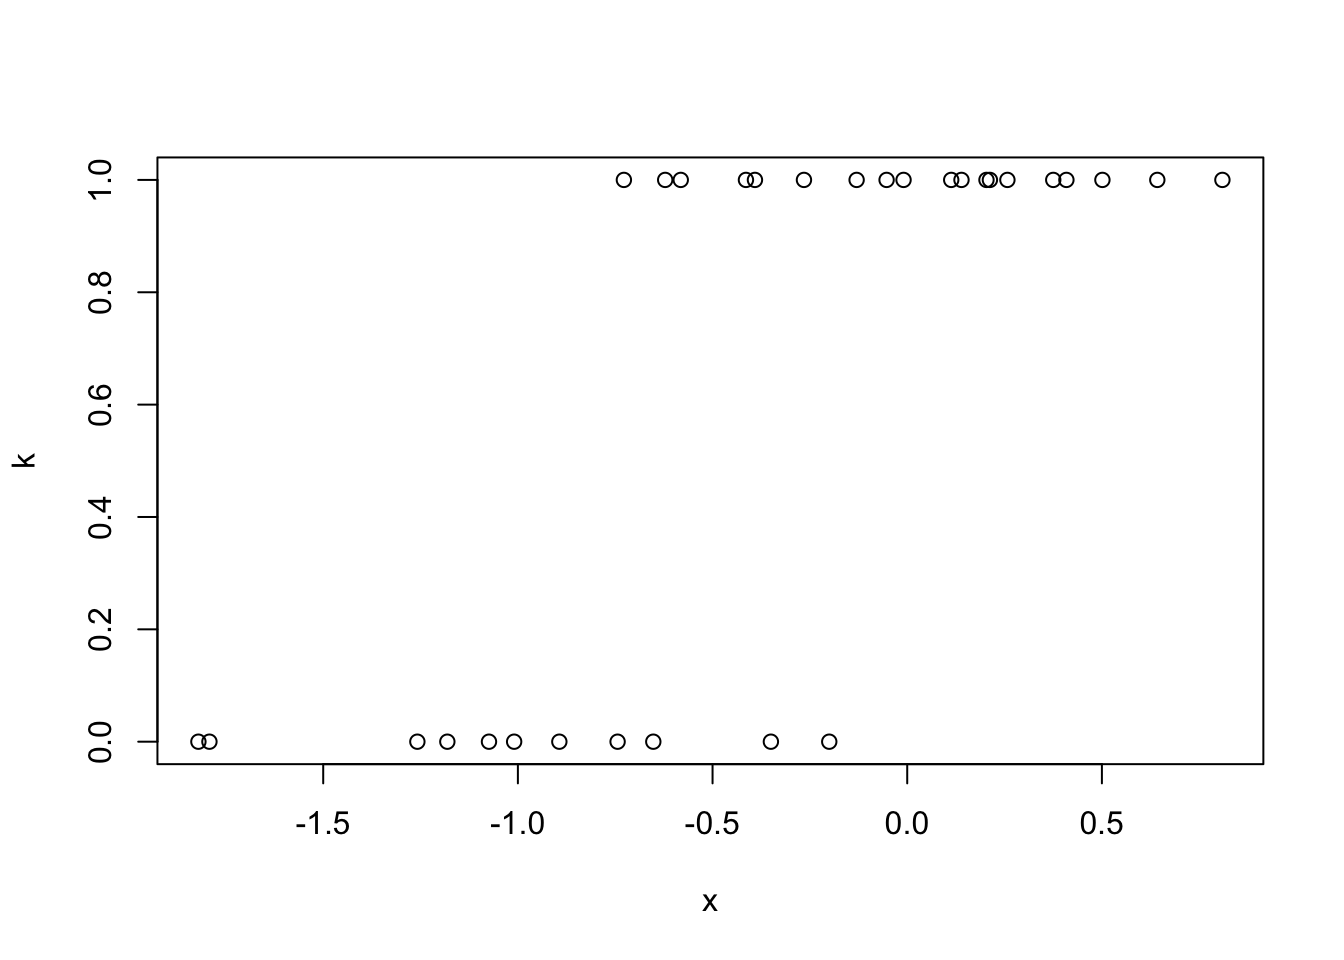
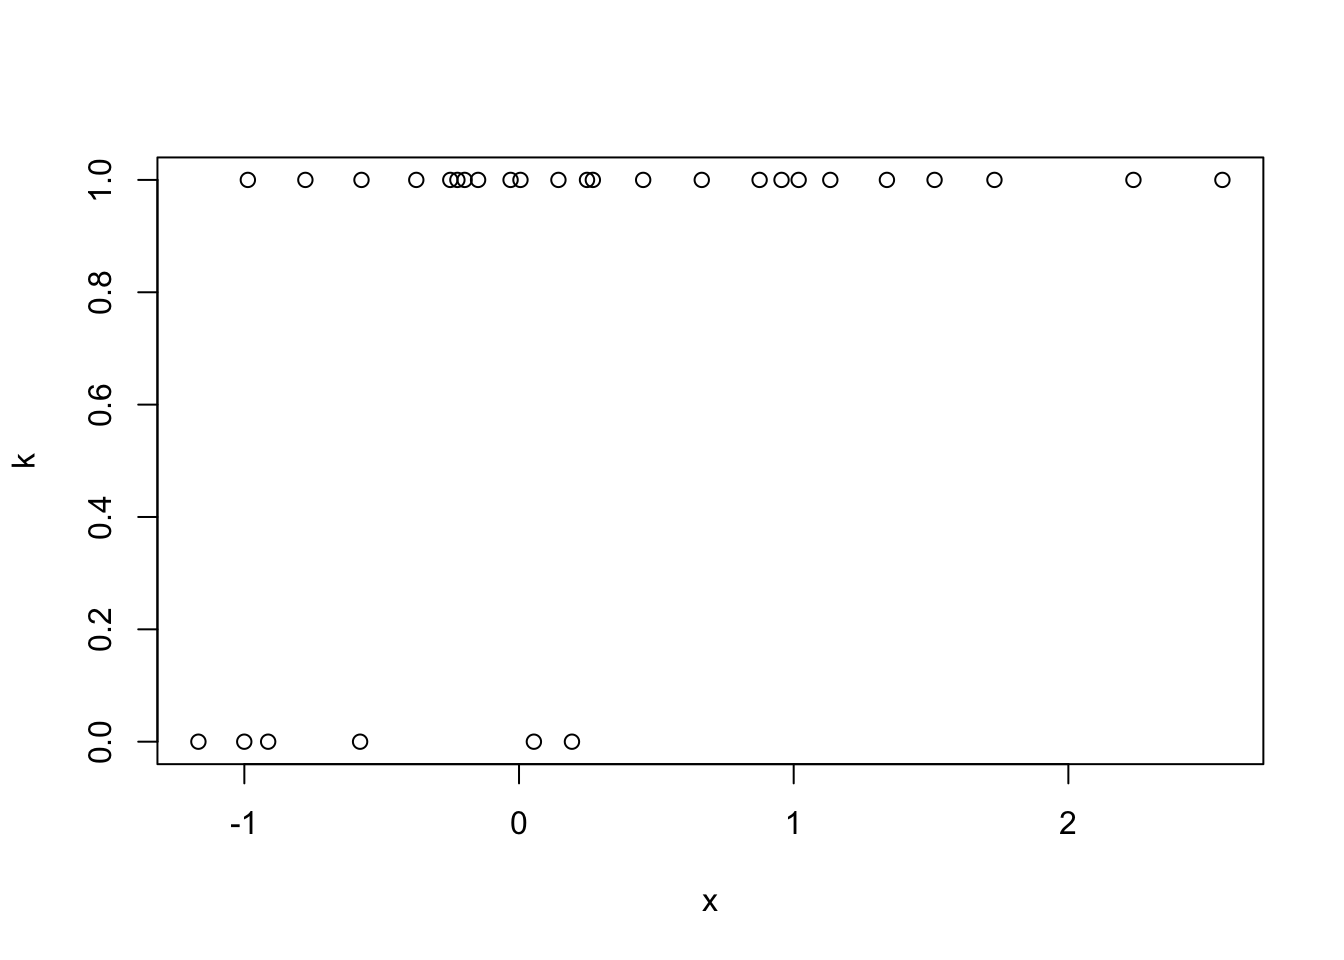
Website update
a few more spelling mistakes

diff --git a/docs/bootcamp-r-series-010-intro-to-r-pt1.html b/docs/bootcamp-r-series-010-intro-to-r-pt1.html
@@ -934,24 +934,24 @@ integer (most of the time).</p>
 <pre class="r"><code># most often used for categorical observations
 pets &lt;- c(&quot;cat&quot;, &quot;dog&quot;, &quot;lizard&quot;, &quot;raccoon&quot;)
 (pet_obs &lt;- sample(pets, 20, TRUE))</code></pre>
-<pre><code>##  [1] &quot;raccoon&quot; &quot;raccoon&quot; &quot;cat&quot;     &quot;cat&quot;     &quot;dog&quot;     &quot;cat&quot;     &quot;dog&quot;    
-##  [8] &quot;lizard&quot;  &quot;dog&quot;     &quot;lizard&quot;  &quot;cat&quot;     &quot;cat&quot;     &quot;dog&quot;     &quot;lizard&quot; 
-## [15] &quot;lizard&quot;  &quot;dog&quot;     &quot;raccoon&quot; &quot;raccoon&quot; &quot;raccoon&quot; &quot;dog&quot;</code></pre>
+<pre><code>##  [1] &quot;lizard&quot;  &quot;lizard&quot;  &quot;raccoon&quot; &quot;raccoon&quot; &quot;cat&quot;     &quot;lizard&quot;  &quot;raccoon&quot;
+##  [8] &quot;lizard&quot;  &quot;cat&quot;     &quot;lizard&quot;  &quot;dog&quot;     &quot;cat&quot;     &quot;lizard&quot;  &quot;dog&quot;    
+## [15] &quot;raccoon&quot; &quot;dog&quot;     &quot;dog&quot;     &quot;dog&quot;     &quot;lizard&quot;  &quot;cat&quot;</code></pre>
 <pre class="r"><code># Turn the character vector into a set of factors
 pet_fct &lt;- factor(pet_obs)
 pet_fct</code></pre>
-<pre><code>##  [1] raccoon raccoon cat     cat     dog     cat     dog     lizard  dog    
-## [10] lizard  cat     cat     dog     lizard  lizard  dog     raccoon raccoon
-## [19] raccoon dog    
+<pre><code>##  [1] lizard  lizard  raccoon raccoon cat     lizard  raccoon lizard  cat    
+## [10] lizard  dog     cat     lizard  dog     raccoon dog     dog     dog    
+## [19] lizard  cat    
 ## Levels: cat dog lizard raccoon</code></pre>
 <pre class="r"><code># can be converted to an integer vector
 as.integer(pet_fct)</code></pre>
-<pre><code>##  [1] 4 4 1 1 2 1 2 3 2 3 1 1 2 3 3 2 4 4 4 2</code></pre>
+<pre><code>##  [1] 3 3 4 4 1 3 4 3 1 3 2 1 3 2 4 2 2 2 3 1</code></pre>
 <pre class="r"><code># can be converted to a character vector
 as.character(pet_fct)</code></pre>
-<pre><code>##  [1] &quot;raccoon&quot; &quot;raccoon&quot; &quot;cat&quot;     &quot;cat&quot;     &quot;dog&quot;     &quot;cat&quot;     &quot;dog&quot;    
-##  [8] &quot;lizard&quot;  &quot;dog&quot;     &quot;lizard&quot;  &quot;cat&quot;     &quot;cat&quot;     &quot;dog&quot;     &quot;lizard&quot; 
-## [15] &quot;lizard&quot;  &quot;dog&quot;     &quot;raccoon&quot; &quot;raccoon&quot; &quot;raccoon&quot; &quot;dog&quot;</code></pre>
+<pre><code>##  [1] &quot;lizard&quot;  &quot;lizard&quot;  &quot;raccoon&quot; &quot;raccoon&quot; &quot;cat&quot;     &quot;lizard&quot;  &quot;raccoon&quot;
+##  [8] &quot;lizard&quot;  &quot;cat&quot;     &quot;lizard&quot;  &quot;dog&quot;     &quot;cat&quot;     &quot;lizard&quot;  &quot;dog&quot;    
+## [15] &quot;raccoon&quot; &quot;dog&quot;     &quot;dog&quot;     &quot;dog&quot;     &quot;lizard&quot;  &quot;cat&quot;</code></pre>
 </div>
 <div id="overview-of-objects-and-data-structures"
 class="section level2">
@@ -1372,7 +1372,7 @@ lm(y ~ x) # slope-intercept model. Same as `lm(y ~ 1 + x)`</code></pre>
 ## 
 ## Coefficients:
 ## (Intercept)            x  
-##       2.024        2.877</code></pre>
+##       1.904        2.993</code></pre>
 <pre class="r"><code>lm(y ~ 0 + x) # slope only model (no intercept)</code></pre>
 <pre><code>## 
 ## Call:
@@ -1380,7 +1380,7 @@ lm(y ~ x) # slope-intercept model. Same as `lm(y ~ 1 + x)`</code></pre>
 ## 
 ## Coefficients:
 ##     x  
-## 1.633</code></pre>
+## 3.524</code></pre>
 <p>Can also fit a generalized linear model using (you guessed it) the
 <code>glm()</code> function.</p>
 <pre class="r"><code># logit(theta) = 3x + 2
@@ -1394,11 +1394,11 @@ glm(k ~ 1 + x, family = binomial(link = &quot;logit&quot;))</code></pre>
 ## 
 ## Coefficients:
 ## (Intercept)            x  
-##       2.948        5.055  
+##       1.713        2.180  
 ## 
 ## Degrees of Freedom: 29 Total (i.e. Null);  28 Residual
-## Null Deviance:       39.43 
-## Residual Deviance: 17.38     AIC: 21.38</code></pre>
+## Null Deviance:       30.02 
+## Residual Deviance: 21.8  AIC: 25.8</code></pre>
 </div>
 <div id="summarizing-data-frames-and-models" class="section level2">
 <h2>Summarizing data frames and models</h2>
@@ -1408,17 +1408,17 @@ models, and it is the <code>summary()</code> function.</p>
 z &lt;- rnorm(50)
 summary(z)</code></pre>
 <pre><code>##    Min. 1st Qu.  Median    Mean 3rd Qu.    Max. 
-## -2.1173 -1.0992 -0.2891 -0.1582  0.4905  2.5211</code></pre>
+## -1.9066 -0.4062  0.4690  0.3888  1.1706  2.7283</code></pre>
 <pre class="r"><code># summarize a data frame
 df &lt;- data.frame(a = 1L:10L, b = rexp(10), c = factor(sample(c(&quot;a&quot;, &quot;b&quot;, &quot;c&quot;), 10, TRUE)))
 summary(df)</code></pre>
 <pre><code>##        a               b           c    
-##  Min.   : 1.00   Min.   :0.07537   a:2  
-##  1st Qu.: 3.25   1st Qu.:0.38077   b:1  
-##  Median : 5.50   Median :0.55756   c:7  
-##  Mean   : 5.50   Mean   :0.64401        
-##  3rd Qu.: 7.75   3rd Qu.:0.87110        
-##  Max.   :10.00   Max.   :1.45466</code></pre>
+##  Min.   : 1.00   Min.   :0.01876   a:5  
+##  1st Qu.: 3.25   1st Qu.:0.28006   b:2  
+##  Median : 5.50   Median :0.95297   c:3  
+##  Mean   : 5.50   Mean   :1.12499        
+##  3rd Qu.: 7.75   3rd Qu.:1.70855        
+##  Max.   :10.00   Max.   :2.84162</code></pre>
 <pre class="r"><code># summarize a linear model
 fit &lt;- lm(y ~ 1 + x)
 summary(fit)</code></pre>
@@ -1427,19 +1427,19 @@ summary(fit)</code></pre>
 ## lm(formula = y ~ 1 + x)
 ## 
 ## Residuals:
-##      Min       1Q   Median       3Q      Max 
-## -1.19226 -0.11523  0.04622  0.33933  0.90945 
+##     Min      1Q  Median      3Q     Max 
+## -1.0160 -0.4364  0.0340  0.4178  1.1929 
 ## 
 ## Coefficients:
 ##             Estimate Std. Error t value Pr(&gt;|t|)    
-## (Intercept)   2.0240     0.1097   18.45   &lt;2e-16 ***
-## x             2.8768     0.1453   19.80   &lt;2e-16 ***
+## (Intercept)   1.9035     0.1112   17.11 2.32e-16 ***
+## x             2.9927     0.1127   26.56  &lt; 2e-16 ***
 ## ---
 ## Signif. codes:  0 &#39;***&#39; 0.001 &#39;**&#39; 0.01 &#39;*&#39; 0.05 &#39;.&#39; 0.1 &#39; &#39; 1
 ## 
-## Residual standard error: 0.5323 on 28 degrees of freedom
-## Multiple R-squared:  0.9333, Adjusted R-squared:  0.9309 
-## F-statistic: 391.9 on 1 and 28 DF,  p-value: &lt; 2.2e-16</code></pre>
+## Residual standard error: 0.5857 on 28 degrees of freedom
+## Multiple R-squared:  0.9618, Adjusted R-squared:  0.9605 
+## F-statistic: 705.4 on 1 and 28 DF,  p-value: &lt; 2.2e-16</code></pre>
 <p>Notice that it outputs differently for different input objects. This
 is because <code>summary()</code> is a <em>generic</em> function,
 meaning that it has multiple <em>methods</em> defined for different R

diff --git a/docs/biomarker_hunt_2026-08.html b/docs/biomarker_hunt_2026-08.html
@@ -496,7 +496,7 @@ Now!</strong></a></span>
 <h3><img src="media/img/icon_Rviz.png" style="width: 80px; float: left; margin: 0px 20px 0px 0px;">Program
 Details</h3>
 <p>The program runs from <strong>Thursday, August 27 at 4pm through
-Sunday, August 30, 2036 at 3pm</strong>. <em>Please note that this
+Sunday, August 30, 2026 at 3pm</strong>. <em>Please note that this
 training event is a full-time commitment, and we will be staying the
 entire time at the Lake Tahoe Campus</em></p>
 <p>The Biomarker Hunt is designed to simulate the early stages of a real
@@ -529,9 +529,9 @@ be requested. </strong></p>
 </ul>
 <p><br></p>
 </div>
-<div id="where-when" class="section level3">
-<h3><img src="media/img/icon_lake.png" style="width: 80px; float: left; margin: 0px 20px 0px 0px;">Where
-&amp; When</h3>
+<div id="event-logistics" class="section level3">
+<h3><img src="media/img/icon_lake.png" style="width: 80px; float: left; margin: 0px 20px 0px 0px;">Event
+Logistics</h3>
 <p>The program will be held at the <strong>University of Nevada, Reno at
 Lake Tahoe campus in Incline Village, Nevada</strong>.</p>
 <p><br></p>
@@ -596,20 +596,18 @@ Sunday 8/30/26
 </tr>
 </tbody>
 </table>
-<p><em>Days will be long, but there are breaks build in.</em> <br></p>
-</div>
-<div id="logistics" class="section level2">
-<h2>Logistics</h2>
-<p>Dorm rooms (triple occupancy) at Lake Tahoe will be provided to
-<strong>all</strong> students.</p>
+<p><em>Days will be long, but they are breaks built in.</em> <br></p>
+<p>Dorm rooms (triple same-sex occupancy) at Lake Tahoe will be provided
+to <strong>all</strong> students.</p>
 <p>We are not offering travel arrangements to Lake Tahoe for this
 program. Shall you be in need for travel support, please reach out to <a
 href="mailto:nbc_training@unr.edu"
 class="email">nbc_training@unr.edu</a>. If you are participating from
-any NSHE institution but UNR, please reach out to your local NV INBRE
-representative to inquire about travel support.</p>
+any NSHE institution other than UNR, please reach out to your local NV
+INBRE representative to inquire about travel support.</p>
 <p>More details about the program will be shared upon acceptance.
 <br></p>
+</div>
 <div id="questions" class="section level3">
 <h3>Questions</h3>
 <p>Reach out at any time, email <a href="mailto:nbc_training@unr.edu"
@@ -634,11 +632,10 @@ Health and the National Science Foundation (2203236).</p>
 <!-- <img src="media/img/NVINBRE-logo.jpg" style="width: 200px; float: center; margin: 20px 20px 20px 20px;"> -->
 <p><img src="media/img/banner_sponsors.png" style="width: 600px; float: center; margin: 20px 20px 20px 20px;"></p>
 </div>
-</div>
 
 <footer>
   <hr />
-  Copyright &copy; 2023 Nevada INBRE. All rights reserved.
+  Copyright &copy; 2026 Nevada INBRE. All rights reserved.
 </footer>
 
 <!-- Open external links in new tab -->

diff --git a/docs/bootcamp-r-series-040-tidy.html b/docs/bootcamp-r-series-040-tidy.html
@@ -1967,29 +1967,29 @@ replication</li>
 # notice you do not need the () after the function as you would if executing from consol
 map(df, mean)</code></pre>
 <pre><code>## $a
-## [1] -0.1553209
+## [1] 0.08184061
 ## 
 ## $b
-## [1] 0.09846925
+## [1] 0.06706115
 ## 
 ## $c
-## [1] -0.09302744
+## [1] -0.17237
 ## 
 ## $d
-## [1] -0.2966889</code></pre>
+## [1] -0.06753297</code></pre>
 <pre class="r"><code># can pipe it an input to make the process even easier
 df %&gt;% map(mean)</code></pre>
 <pre><code>## $a
-## [1] -0.1553209
+## [1] 0.08184061
 ## 
 ## $b
-## [1] 0.09846925
+## [1] 0.06706115
 ## 
 ## $c
-## [1] -0.09302744
+## [1] -0.17237
 ## 
 ## $d
-## [1] -0.2966889</code></pre>
+## [1] -0.06753297</code></pre>
 <p>You may have noticed that the output format is not necessarily in the
 format that we might expect. The <code>map()</code> function always
 outputs a list.</p>
@@ -2000,7 +2000,7 @@ vector of the indicated type (or die trying).</p>
 <pre class="r"><code># Should return a numerical vector rather than a list
 map_dbl(df, mean)</code></pre>
 <pre><code>##           a           b           c           d 
-## -0.15532085  0.09846925 -0.09302744 -0.29668894</code></pre>
+##  0.08184061  0.06706115 -0.17237002 -0.06753297</code></pre>
 </div>
 </div>
 

diff --git a/docs/NSC_IntrotoR.html b/docs/NSC_IntrotoR.html
@@ -1120,15 +1120,15 @@ lm(y ~ x) # slope-intercept model. Same as `lm(y ~ 1 + x)`</code></pre>
 ## 
 ## Coefficients:
 ## (Intercept)            x  
-##       1.902        2.984</code></pre>
+##       2.052        2.870</code></pre>
 <pre class="r"><code>lm(y ~ 0 + x) # slope only model (no intercept)</code></pre>
 <pre><code>## 
 ## Call:
 ## lm(formula = y ~ 0 + x)
 ## 
 ## Coefficients:
-##    x  
-## 3.19</code></pre>
+##     x  
+## 2.654</code></pre>
 <div id="practice-time" class="section level3">
 <h3>Practice time!</h3>
 <p>Write a script that creates a linear model relating mpg and cyl of

diff --git a/docs/DSI_welcome.html b/docs/DSI_welcome.html
@@ -470,7 +470,7 @@ field of data science. Thank you for your participation and support!</p>
 
 <footer>
   <hr />
-  Copyright &copy; 2023 Nevada INBRE. All rights reserved.
+  Copyright &copy; 2026 Nevada INBRE. All rights reserved.
 </footer>
 
 <!-- Open external links in new tab -->

diff --git a/docs/NSU_ResearchDay_2025-03.html b/docs/NSU_ResearchDay_2025-03.html
@@ -627,7 +627,7 @@ Sciences (GM103440) and the National Science Foundation (2203236).</p>
 
 <footer>
   <hr />
-  Copyright &copy; 2023 Nevada INBRE. All rights reserved.
+  Copyright &copy; 2026 Nevada INBRE. All rights reserved.
 </footer>
 
 <!-- Open external links in new tab -->

diff --git a/docs/bootcamp-r-series-020-intro-to-r-pt2.html b/docs/bootcamp-r-series-020-intro-to-r-pt2.html
@@ -595,7 +595,7 @@ switch (stat,
   round = round(x, 2),
   &quot;Default option: no match found&quot;
 )</code></pre>
-<pre><code>## [1] 3.160738</code></pre>
+<pre><code>## [1] 3.07991</code></pre>
 </div>
 </div>
 <div id="the--apply-family-of-functions" class="section level2">

diff --git a/docs/workshop-research-computing-2023-11.html b/docs/workshop-research-computing-2023-11.html
@@ -542,7 +542,7 @@ by a grant from the National Institute of General Medical Sciences
 
 <footer>
   <hr />
-  Copyright &copy; 2023 Nevada INBRE. All rights reserved.
+  Copyright &copy; 2026 Nevada INBRE. All rights reserved.
 </footer>
 
 <!-- Open external links in new tab -->

diff --git a/docs/workshop-research-computing-2024-04.html b/docs/workshop-research-computing-2024-04.html
@@ -525,7 +525,7 @@ by a grant from the National Institute of General Medical Sciences
 
 <footer>
   <hr />
-  Copyright &copy; 2023 Nevada INBRE. All rights reserved.
+  Copyright &copy; 2026 Nevada INBRE. All rights reserved.
 </footer>
 
 <!-- Open external links in new tab -->

diff --git a/docs/bootcamp-microbiome_2025-07.html b/docs/bootcamp-microbiome_2025-07.html
@@ -575,7 +575,7 @@ Health and and the National Science Foundation (2203236).</p>
 
 <footer>
   <hr />
-  Copyright &copy; 2023 Nevada INBRE. All rights reserved.
+  Copyright &copy; 2026 Nevada INBRE. All rights reserved.
 </footer>
 
 <!-- Open external links in new tab -->

diff --git a/docs/about.html b/docs/about.html
@@ -489,7 +489,7 @@ Tillett</a>, Bioinformaticics Scientist, 2012 - 2022</li>
 
 <footer>
   <hr />
-  Copyright &copy; 2023 Nevada INBRE. All rights reserved.
+  Copyright &copy; 2026 Nevada INBRE. All rights reserved.
 </footer>
 
 <!-- Open external links in new tab -->

diff --git a/docs/index.html b/docs/index.html
@@ -383,7 +383,7 @@ be found on the <a href="about.html">about page</a>.</p>
 
 <footer>
   <hr />
-  Copyright &copy; 2023 Nevada INBRE. All rights reserved.
+  Copyright &copy; 2026 Nevada INBRE. All rights reserved.
 </footer>
 
 <!-- Open external links in new tab -->
